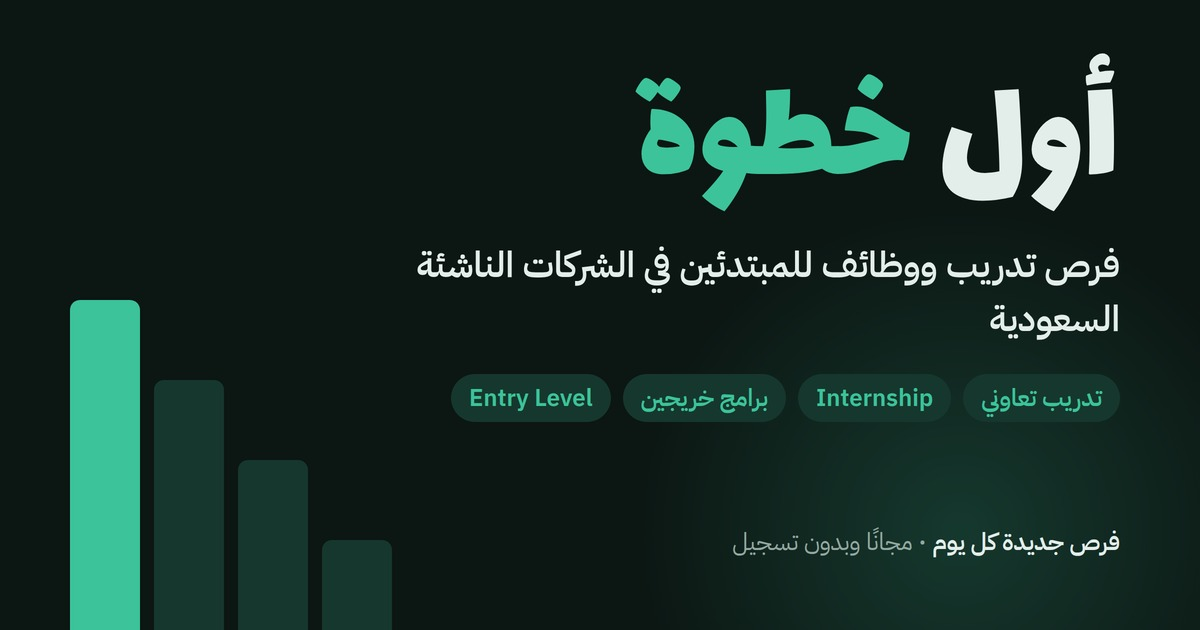
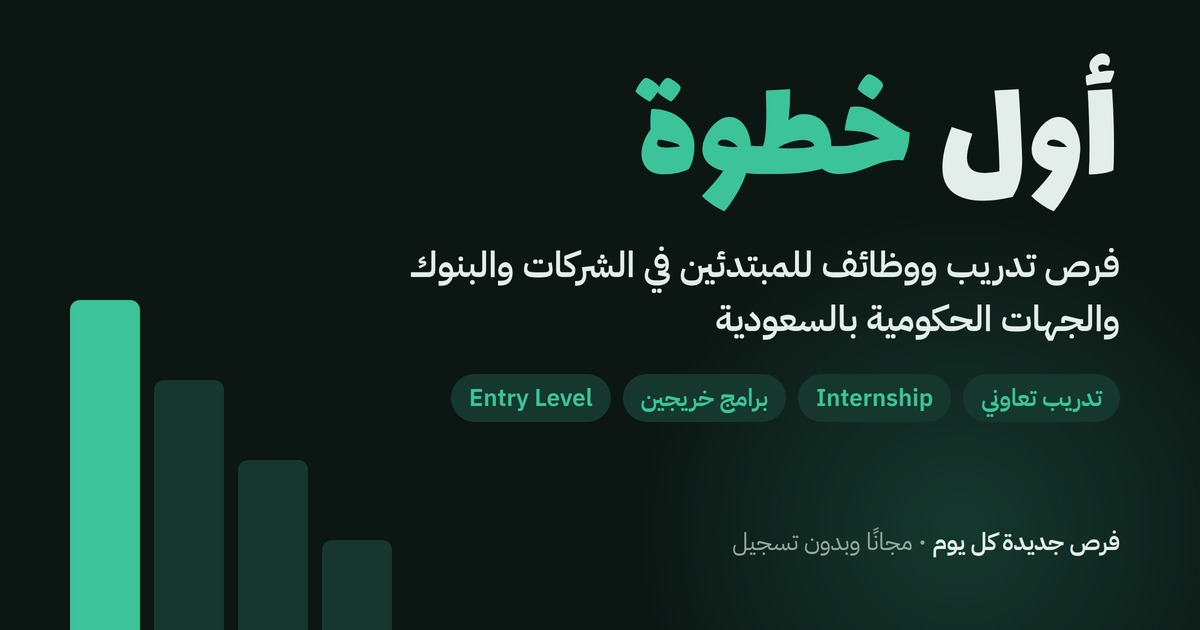
Add files via upload

Changed region(s): [[0.5858, 0.4825, 0.9558, 0.5429], [0.3392, 0.3921, 0.4317, 0.4524]]

diff --git a/index.html b/index.html
@@ -3,21 +3,21 @@
 <head>
 <meta charset="utf-8">
 <meta name="viewport" content="width=device-width, initial-scale=1, viewport-fit=cover">
-<title>أول خطوة | تدريب تعاوني وInternship ووظائف للمبتدئين في الشركات الناشئة السعودية</title>
-<meta name="description" content="فرص تدريب تعاوني وInternship وبرامج خريجين ووظائف Entry Level لحديثي التخرج في الشركات الناشئة السعودية بالرياض وجدة والشرقية. تتحدث كل يوم من صفحات التوظيف الرسمية.">
+<title>أول خطوة | تدريب تعاوني وInternship ووظائف للمبتدئين في السعودية</title>
+<meta name="description" content="فرص تدريب تعاوني وInternship وبرامج خريجين وتمهير ووظائف Entry Level لحديثي التخرج في السعودية: الشركات الناشئة والخاصة والبنوك والجهات الحكومية وشبه الحكومية. تتحدث كل يوم ومجانًا.">
 <link rel="canonical" href="https://saraalzhrani7.github.io/Awal-khatwa/">
-<script type="application/ld+json">{"@context":"https://schema.org","@type":"WebSite","name":"أول خطوة","alternateName":"Awal Khatwa","url":"https://saraalzhrani7.github.io/Awal-khatwa/","inLanguage":"ar","description":"فرص تدريب تعاوني وInternship ووظائف للمبتدئين في الشركات الناشئة السعودية"}</script>
+<script type="application/ld+json">{"@context":"https://schema.org","@type":"WebSite","name":"أول خطوة","alternateName":"Awal Khatwa","url":"https://saraalzhrani7.github.io/Awal-khatwa/","inLanguage":"ar","description":"فرص تدريب تعاوني وInternship ووظائف للمبتدئين في السعودية"}</script>
 <meta property="og:title" content="أول خطوة">
-<meta property="og:description" content="فرص تدريب ووظائف Entry Level في الشركات الناشئة السعودية للي توهم يبدون.">
+<meta property="og:description" content="فرص تدريب وبرامج خريجين ووظائف Entry Level في الشركات والبنوك والجهات الحكومية بالسعودية، للي توهم يبدون.">
 <meta property="og:type" content="website">
 <meta property="og:url" content="https://saraalzhrani7.github.io/Awal-khatwa/">
-<meta property="og:image" content="https://saraalzhrani7.github.io/Awal-khatwa/og-image.jpg">
+<meta property="og:image" content="https://saraalzhrani7.github.io/Awal-khatwa/og-image.jpg?v=2">
 <meta property="og:image:width" content="1200">
 <meta property="og:image:height" content="630">
 <meta property="og:image:type" content="image/jpeg">
 <meta property="og:locale" content="ar_SA">
 <meta name="twitter:card" content="summary_large_image">
-<meta name="twitter:image" content="https://saraalzhrani7.github.io/Awal-khatwa/og-image.jpg">
+<meta name="twitter:image" content="https://saraalzhrani7.github.io/Awal-khatwa/og-image.jpg?v=2">
 <link rel="manifest" href="manifest.webmanifest">
 <link rel="alternate" type="application/rss+xml" title="أول خطوة: فرص جديدة" href="feed.xml">
 <meta name="theme-color" content="#0B7A5C">
@@ -107,6 +107,7 @@ header.top{display:flex; flex-wrap:wrap; align-items:end; justify-content:space-
 .job h3{margin:0; font-size:17px; font-weight:600; line-height:1.35; text-wrap:balance}
 .meta{display:flex; flex-wrap:wrap; gap:6px; font-size:12.5px}
 .tag{border:1px solid var(--line); border-radius:6px; padding:1px 8px; color:var(--muted); background:var(--surface)}
+.tag.org{border-color:var(--saffron); color:var(--saffron)}
 .tag.type{border-color:transparent; background:var(--accent-soft); color:var(--accent); font-weight:600}
 .who{margin:0; font-size:14px; text-wrap:pretty; max-width:70ch}
 .job-side{display:flex; flex-direction:column; align-items:end; gap:10px; justify-content:space-between; min-width:150px}
@@ -278,12 +279,12 @@ footer .contact a{color:var(--ink); font-weight:500}
   <header class="top">
     <div class="brand">
       <h1>أول <span>خطوة</span></h1>
-      <p>فرص تدريب ووظائف Entry Level في الشركات الناشئة السعودية، للي توهم يبدون رحلتهم المهنية. كل إعلان يوديك لصفحة التقديم الرسمية.</p>
+      <p>فرص تدريب وبرامج خريجين ووظائف Entry Level في السعودية: الشركات الناشئة والخاصة، والبنوك، والجهات الحكومية وشبه الحكومية. للي توهم يبدون رحلتهم المهنية. كل إعلان يوديك لصفحة التقديم الرسمية.</p>
     </div>
     <div class="stats">
       <div class="stat"><b class="live" id="stOpen">–</b><small>فرصة مفتوحة الآن</small></div>
       <div class="stat"><b id="stAll">–</b><small>إعلان وبرنامج</small></div>
-      <div class="stat"><b id="stCo">–</b><small>شركة ناشئة</small></div>
+      <div class="stat"><b id="stCo">–</b><small>جهة وشركة</small></div>
     </div>
   </header>
 
@@ -317,6 +318,8 @@ footer .contact a{color:var(--ink); font-weight:500}
         <div class="frow" id="fToggles"></div>
         <div class="flabel">نوع الفرصة</div>
         <div class="chips" id="typeChips" role="group" aria-label="نوع الفرصة"></div>
+        <div class="flabel">نوع الجهة</div>
+        <div class="chips" id="orgChips" role="group" aria-label="نوع الجهة"></div>
         <div class="flabel">المجال</div>
         <div class="chips" id="fieldChips" role="group" aria-label="المجال"></div>
         <div class="flabel">المدينة</div>
@@ -337,6 +340,7 @@ footer .contact a{color:var(--ink); font-weight:500}
           <input id="q2" type="search" placeholder="ابحث باسم الشركة أو القطاع…" autocomplete="off">
         </label>
       </div>
+      <div class="chips" id="corgChips" role="group" aria-label="نوع الجهة"></div>
       <div class="chips" id="secChips" role="group" aria-label="القطاعات"></div>
     </div>
     <div class="grid" id="grid"></div>
@@ -370,8 +374,8 @@ const STATIC_EN = [
   ['.sitenav a[href="./"]', 'Opportunities'], ['.sitenav a[href="cv.html"]', 'CV Builder'], ['.sitenav a[href="guide.html"]', 'Beginner Guide'], ['.sitenav a[href="stats.html"]', 'Stats'],
   ['#langBtn', 'عربي'],
   ['.brand h1', 'Awal <span>Khatwa</span>'],
-  ['.brand p', 'Internships, co-op training, graduate programs and entry-level jobs at Saudi startups, for people just starting their careers. Every listing links to the official application page.'],
-  ['#stOpen + small', 'open now'], ['#stAll + small', 'listings & programs'], ['#stCo + small', 'startups'],
+  ['.brand p', 'Internships, co-op training, graduate programs and entry-level jobs in Saudi Arabia: startups, private companies, banks, government and semi-government entities. For people just starting their careers. Every listing links to the official application page.'],
+  ['#stOpen + small', 'open now'], ['#stAll + small', 'listings & programs'], ['#stCo + small', 'organizations'],
   ['#glossToggle', 'What’s the difference between these types?'],
   ['#glossary', `<div class="gloss"><span class="k">Co-op Training</span><p><b>University requirement:</b> training you need to graduate, approved and followed up by your university.</p></div>
     <div class="gloss"><span class="k">Internship</span><p><b>Not a university requirement:</b> for recent graduates or students in summer, usually 3 to 6 months and often paid.</p></div>
@@ -399,9 +403,9 @@ function applyStatic(){
   if(LANG !== "en") return;
   document.documentElement.lang = "en"; document.documentElement.dir = "ltr";
   const w = document.querySelector(".wrap"); w.setAttribute("dir","ltr"); w.setAttribute("lang","en");
-  document.title = "Awal Khatwa | Internships, Co-op and Entry-Level Jobs at Saudi Startups";
+  document.title = "Awal Khatwa | Internships, Co-op and Entry-Level Jobs in Saudi Arabia";
   STATIC_EN.forEach(([sel, html])=>{ const el = document.querySelector(sel); if(el) el.innerHTML = html; });
-  const fl = document.querySelectorAll(".flabel"); ["Type","Field","City"].forEach((t,i)=>{ if(fl[i]) fl[i].textContent = t; });
+  const fl = document.querySelectorAll(".flabel"); ["Type","Organization","Field","City"].forEach((t,i)=>{ if(fl[i]) fl[i].textContent = t; });
   Object.entries(PH_EN).forEach(([id,ph])=>{ const el = document.getElementById(id); if(el) el.placeholder = ph; });
   $("#langBtn").setAttribute("lang","ar");
 }
@@ -428,18 +432,20 @@ const REGIONS = {
   remote: {label:"عن بُعد", test:j=>!!j.remote || /عن ب[ُ]?عد/.test(j.city||"")}
 };
 const TYPES = {coop:"تدريب تعاوني", internship:"Internship", grad:"برنامج خريجين", entry:"Entry Level"};
-const FIELDS = {tech:"تقنية وبرمجة", data:"بيانات وذكاء اصطناعي", cyber:"أمن سيبراني", product:"منتج وتصميم", business:"أعمال وموارد بشرية", media:"إعلام ومحتوى"};
+const FIELDS = {tech:"تقنية وبرمجة", data:"بيانات وذكاء اصطناعي", cyber:"أمن سيبراني", finance:"مالية ومحاسبة", engineering:"هندسة", health:"صحة وعلوم", legal:"قانون", supply:"سلاسل إمداد ومشتريات", marketing:"تسويق ومبيعات", product:"منتج وتصميم", business:"أعمال وموارد بشرية", media:"إعلام ومحتوى"};
+const ORGS = {startup:"شركات ناشئة", private:"شركات خاصة", semi:"شبه حكومي", bank:"بنوك", gov:"جهات حكومية"};
 const STATUS = {open:"مفتوح", rolling:"مستمر", seasonal:"موسمي", closed:"مغلق حاليًا"};
 const LABELS = {
-  ar:{types:{...TYPES}, fields:{...FIELDS}, status:{...STATUS}, regions:{riyadh:"الرياض", west:"جدة ومكة", east:"الشرقية", remote:"عن بُعد"}},
+  ar:{types:{...TYPES}, fields:{...FIELDS}, status:{...STATUS}, orgs:{...ORGS}, regions:{riyadh:"الرياض", west:"جدة ومكة", east:"الشرقية", remote:"عن بُعد"}},
   en:{types:{coop:"Co-op Training", internship:"Internship", grad:"Graduate Program", entry:"Entry Level"},
-      fields:{tech:"Tech & Software", data:"Data & AI", cyber:"Cybersecurity", product:"Product & Design", business:"Business & HR", media:"Media & Content"},
+      fields:{tech:"Tech & Software", data:"Data & AI", cyber:"Cybersecurity", finance:"Finance & Accounting", engineering:"Engineering", health:"Health & Sciences", legal:"Law", supply:"Supply Chain & Procurement", marketing:"Marketing & Sales", product:"Product & Design", business:"Business & HR", media:"Media & Content"},
+      orgs:{startup:"Startups", private:"Private companies", semi:"Semi-government", bank:"Banks", gov:"Government"},
       status:{open:"Open", rolling:"Rolling", seasonal:"Seasonal", closed:"Closed for now"},
       regions:{riyadh:"Riyadh", west:"Jeddah & Makkah", east:"Eastern Province", remote:"Remote"}}
 };
-const SECT_EN = {"الكل":"All","إعلام ومحتوى":"Media & Content","برمجيات للأعمال":"Business Software","تقنية مالية":"Fintech","تجارة إلكترونية":"E-commerce","توصيل":"Delivery","سياحة وضيافة":"Travel & Hospitality","ذكاء اصطناعي":"AI","أمن سيبراني":"Cybersecurity","اتصالات":"Telecom","عقار وسكن":"Real Estate","فعاليات وترفيه":"Events & Entertainment","ألعاب":"Gaming","تقنية متقدمة":"Deep Tech"};
+const SECT_EN = {"الكل":"All","إعلام ومحتوى":"Media & Content","برمجيات للأعمال":"Business Software","تقنية مالية":"Fintech","تجارة إلكترونية":"E-commerce","توصيل":"Delivery","سياحة وضيافة":"Travel & Hospitality","ذكاء اصطناعي":"AI","أمن سيبراني":"Cybersecurity","اتصالات":"Telecom","عقار وسكن":"Real Estate","فعاليات وترفيه":"Events & Entertainment","ألعاب":"Gaming","تقنية متقدمة":"Deep Tech","بنوك":"Banks","طاقة وصناعة":"Energy & Industry","طيران":"Aviation","تطوير عقاري وسياحة":"Real Estate & Tourism","استثمار":"Investment","تعليم وبحث":"Education & Research","منصات حكومية":"Government Platforms","مالية ومحاسبة":"Finance","تجزئة وأغذية":"Retail & Food","صحة":"Healthcare","استشارات":"Consulting"};
 const sectL = x => LANG === "en" ? (SECT_EN[x] || x) : x;
-function applyLabels(){ const L = LABELS[LANG]; Object.assign(TYPES, L.types); Object.assign(FIELDS, L.fields); Object.assign(STATUS, L.status); Object.entries(L.regions).forEach(([k,v])=>{ REGIONS[k].label = v; }); }
+function applyLabels(){ const L = LABELS[LANG]; Object.assign(TYPES, L.types); Object.assign(FIELDS, L.fields); Object.assign(STATUS, L.status); Object.assign(ORGS, L.orgs); Object.entries(L.regions).forEach(([k,v])=>{ REGIONS[k].label = v; }); }
 const RANK = {open:0, rolling:1, seasonal:2, closed:3};
 
 const LI = n => "https://www.linkedin.com/jobs/search/?keywords=" + encodeURIComponent(n) + "&location=Saudi%20Arabia&f_E=1%2C2";
@@ -473,7 +479,7 @@ const COS = [
  {ar:"جاذر إن",en:"Gathern",sector:"سياحة وضيافة",desc:"حجز شاليهات وشقق واستراحات.",den:"Booking chalets, apartments and rest houses.",careers:"https://www.linkedin.com/company/gathern.co"},
  {ar:"لوسيديا",en:"Lucidya",sector:"ذكاء اصطناعي",desc:"تحليل تجربة العملاء بالذكاء الاصطناعي بالعربي.",den:"AI customer-experience analytics in Arabic.",careers:"https://apply.workable.com/lucidya/"},
  {ar:"مزن",en:"Mozn",sector:"ذكاء اصطناعي",desc:"ذكاء اصطناعي لمكافحة الاحتيال وتحليل البيانات.",den:"AI for fraud prevention and data analytics.",careers:"https://www.mozn.ai/careers"},
- {ar:"هيوماين",en:"HUMAIN",sector:"ذكاء اصطناعي",desc:"شركة ذكاء اصطناعي سعودية تابعة لصندوق الاستثمارات العامة.",den:"Saudi AI company owned by the Public Investment Fund.",careers:"https://hub.misk.org.sa/programs/skills/misk-x-humain-traineeship-program-future-ai-builders/"},
+ {ar:"هيوماين",en:"HUMAIN",org:"semi",sector:"ذكاء اصطناعي",desc:"شركة ذكاء اصطناعي سعودية تابعة لصندوق الاستثمارات العامة.",den:"Saudi AI company owned by the Public Investment Fund.",careers:"https://hub.misk.org.sa/programs/skills/misk-x-humain-traineeship-program-future-ai-builders/"},
  {ar:"كوقنا",en:"COGNNA",sector:"أمن سيبراني",desc:"منصة مركز عمليات أمنية (SOC) بالذكاء الاصطناعي.",den:"AI-powered security operations center (SOC) platform.",careers:"https://apply.workable.com/cognna/"},
  {ar:"سرج",en:"Sarj",sector:"ذكاء اصطناعي",desc:"وكلاء صوتيين عرب بالذكاء الاصطناعي للشركات، ويفتحون تدريب للمبتدئين.",den:"Arabic AI voice agents for enterprises; opens internships for beginners.",careers:"https://jobs.ashbyhq.com/sarjai"},
  {ar:"ديب",en:"DEEP.SA",sector:"ذكاء اصطناعي",desc:"محركات ووكلاء ذكاء اصطناعي مبنية للسوق والبيانات السعودية.",den:"AI engines and agents built for Saudi market data.",careers:"https://www.linkedin.com/company/deepforai/jobs/"},
@@ -493,8 +499,56 @@ const COS = [
  {ar:"ويبوك",en:"webook",sector:"فعاليات وترفيه",desc:"حجز التذاكر والفعاليات، ويفتحون تمهير وتدريب تعاوني وInternship.",den:"Tickets and events booking; offers Tamheer, co-op and internships.",careers:"https://apply.workable.com/webook/"},
  {ar:"ميراي",en:"Mirai",sector:"ألعاب",desc:"استوديو ألعاب ومحتوى بالذكاء الاصطناعي التوليدي.",den:"Game and content studio using generative AI.",careers:"https://apply.workable.com/playmirai/"},
  {ar:"أدري",en:"Adree",sector:"برمجيات للأعمال",desc:"اختبار البرمجيات والتحول الرقمي بتقنيات Low-code.",den:"Software testing and digital transformation with low-code.",careers:"https://apply.workable.com/adree/"},
- {ar:"آلات",en:"Alat",sector:"تقنية متقدمة",desc:"تصنيع إلكترونيات وتقنيات متقدمة، تابعة لصندوق الاستثمارات العامة.",den:"Electronics and advanced tech manufacturing, owned by PIF.",careers:"https://www.alat.com/en/careers/"},
- {ar:"نيو سبيس",en:"Neo Space Group",sector:"تقنية متقدمة",desc:"خدمات فضائية للاتصالات والرصد، تابعة لصندوق الاستثمارات العامة.",den:"Space services for communications and earth observation, owned by PIF.",careers:"https://www.linkedin.com/company/neospacegroup/jobs/"},
+ {ar:"آلات",en:"Alat",org:"semi",sector:"تقنية متقدمة",desc:"تصنيع إلكترونيات وتقنيات متقدمة، تابعة لصندوق الاستثمارات العامة.",den:"Electronics and advanced tech manufacturing, owned by PIF.",careers:"https://www.alat.com/en/careers/"},
+ {ar:"نيو سبيس",en:"Neo Space Group",org:"semi",sector:"تقنية متقدمة",desc:"خدمات فضائية للاتصالات والرصد، تابعة لصندوق الاستثمارات العامة.",den:"Space services for communications and earth observation, owned by PIF.",careers:"https://www.linkedin.com/company/neospacegroup/jobs/"},
+ {ar: "البنك الأهلي السعودي", en: "Saudi National Bank", org: "bank", sector: "بنوك", desc: "أكبر بنك في السعودية، وعنده برامج تطوير للخريجين.", den: "Saudi Arabia's largest bank, with graduate development programs.", careers: "https://www.linkedin.com/jobs/search/?keywords=Saudi%20National%20Bank&location=Saudi%20Arabia&f_E=1%2C2"},
+ {ar: "مصرف الراجحي", en: "Al Rajhi Bank", org: "bank", sector: "بنوك", desc: "من أكبر المصارف الإسلامية، ويفتح تدريب تعاوني وبرامج خريجين.", den: "One of the largest Islamic banks; offers co-op training and graduate programs.", careers: "https://careers.alrajhibank.com.sa/"},
+ {ar: "بنك الرياض", en: "Riyad Bank", org: "bank", sector: "بنوك", desc: "بنك سعودي كبير، وعنده برامج لحديثي التخرج.", den: "Major Saudi bank with programs for fresh graduates.", careers: "https://careers.riyadbank.com/"},
+ {ar: "البنك السعودي الأول", en: "SAB", org: "bank", sector: "بنوك", desc: "البنك السعودي الأول (ساب).", den: "Saudi Awwal Bank (SAB).", careers: "https://careers.sab.com/"},
+ {ar: "مصرف الإنماء", en: "Alinma Bank", org: "bank", sector: "بنوك", desc: "مصرف إسلامي وخدمات رقمية.", den: "Islamic bank with digital services.", careers: "https://career.alinma.com/"},
+ {ar: "البنك السعودي الفرنسي", en: "Banque Saudi Fransi", org: "bank", sector: "بنوك", desc: "بنك سعودي، ويعلن فرص لحديثي التخرج.", den: "Saudi bank that posts opportunities for fresh graduates.", careers: "https://www.bsfcareers.sa/"},
+ {ar: "البنك العربي الوطني", en: "Arab National Bank", org: "bank", sector: "بنوك", desc: "بنك سعودي بخدمات للأفراد والشركات.", den: "Saudi bank serving individuals and businesses.", careers: "https://careers.anb.sa/"},
+ {ar: "بنك البلاد", en: "Bank Albilad", org: "bank", sector: "بنوك", desc: "مصرف إسلامي سعودي.", den: "Saudi Islamic bank.", careers: "https://career.bankalbilad.com/"},
+ {ar: "بنك الجزيرة", en: "Bank AlJazira", org: "bank", sector: "بنوك", desc: "بنك سعودي بخدمات مصرفية إسلامية.", den: "Saudi bank with Islamic banking services.", careers: "https://career.bankaljazira.com/"},
+ {ar: "البنك السعودي للاستثمار", en: "Saudi Investment Bank", org: "bank", sector: "بنوك", desc: "بنك سعودي، وعنده برنامج خريجين وتدريب تعاوني.", den: "Saudi bank with a graduate program and co-op training.", careers: "https://careers.saib.com.sa/"},
+ {ar: "إس تي سي بنك", en: "STC Bank", org: "bank", sector: "بنوك", desc: "بنك رقمي سعودي (STC Pay سابقًا).", den: "Saudi digital bank (formerly STC Pay).", careers: "https://www.linkedin.com/jobs/search/?keywords=STC%20Bank&location=Saudi%20Arabia&f_E=1%2C2"},
+ {ar: "دال 360", en: "D360 Bank", org: "bank", sector: "بنوك", desc: "بنك رقمي سعودي جديد.", den: "New Saudi digital bank.", careers: "https://www.linkedin.com/jobs/search/?keywords=D360%20Bank&location=Saudi%20Arabia&f_E=1%2C2"},
+ {ar: "أرامكو السعودية", en: "Aramco", org: "semi", sector: "طاقة وصناعة", desc: "أكبر شركة طاقة في العالم، وعندها برامج تدريب وابتعاث للخريجين.", den: "The world's largest energy company, with training and graduate programs.", careers: "https://careers.aramco.com/"},
+ {ar: "سابك", en: "SABIC", org: "semi", sector: "طاقة وصناعة", desc: "شركة كيماويات عالمية سعودية.", den: "Global Saudi chemicals company.", careers: "https://jobs.sabic.com/"},
+ {ar: "معادن", en: "Ma'aden", org: "semi", sector: "طاقة وصناعة", desc: "شركة التعدين العربية السعودية، وعندها تدريب تعاوني.", den: "Saudi Arabian Mining Company; offers co-op training.", careers: "https://careers.maaden.com/"},
+ {ar: "الشركة السعودية للكهرباء", en: "Saudi Electricity", org: "semi", sector: "طاقة وصناعة", desc: "الكهرباء في المملكة، وعندها تدريب تعاوني وبرامج خريجين.", den: "Kingdom's electricity provider, with co-op and graduate programs.", careers: "https://jobs.se.com.sa/"},
+ {ar: "إس تي سي", en: "stc", org: "semi", sector: "اتصالات", desc: "أكبر شركة اتصالات وتقنية في السعودية.", den: "Saudi Arabia's largest telecom and tech company.", careers: "https://careers.stc.com.sa/"},
+ {ar: "علم", en: "Elm", org: "semi", sector: "برمجيات للأعمال", desc: "حلول رقمية وحكومية، تابعة لصندوق الاستثمارات العامة.", den: "Digital and e-government solutions, owned by PIF.", careers: "https://career.elm.sa/"},
+ {ar: "الخطوط السعودية", en: "Saudia", org: "semi", sector: "طيران", desc: "الناقل الوطني، وعندها برامج مثل برنامج الطيارين (Cadet).", den: "The national carrier, with programs like the Cadet Program.", careers: "https://careers.saudia.com/"},
+ {ar: "طيران الرياض", en: "Riyadh Air", org: "semi", sector: "طيران", desc: "شركة طيران وطنية جديدة تابعة للصندوق.", den: "New national airline owned by PIF.", careers: "https://riyadhair.tal.net/candidate/jobboard/vacancy/3/adv/"},
+ {ar: "نيوم", en: "NEOM", org: "semi", sector: "تطوير عقاري وسياحة", desc: "مشروع نيوم في شمال غرب المملكة.", den: "The NEOM giga-project in the northwest of the Kingdom.", careers: "https://careers.neom.com/"},
+ {ar: "البحر الأحمر الدولية", en: "Red Sea Global", org: "semi", sector: "تطوير عقاري وسياحة", desc: "مطور مشاريع البحر الأحمر وأمالا.", den: "Developer of The Red Sea and AMAALA destinations.", careers: "https://careers.theredsea.sa/"},
+ {ar: "القدية", en: "Qiddiya", org: "semi", sector: "تطوير عقاري وسياحة", desc: "مدينة الترفيه والرياضة في الرياض.", den: "Riyadh's entertainment and sports city.", careers: "https://apply.workable.com/qiddiya-investment-company-1/"},
+ {ar: "الدرعية", en: "Diriyah Company", org: "semi", sector: "تطوير عقاري وسياحة", desc: "تطوير الدرعية التاريخية.", den: "Developing historic Diriyah.", careers: "https://www.diriyahcompany.sa/en/careers"},
+ {ar: "روشن", en: "ROSHN", org: "semi", sector: "تطوير عقاري وسياحة", desc: "مطور عقاري وطني تابع للصندوق.", den: "National real estate developer owned by PIF.", careers: "https://www.linkedin.com/jobs/search/?keywords=ROSHN&location=Saudi%20Arabia&f_E=1%2C2"},
+ {ar: "صندوق الاستثمارات العامة", en: "PIF", org: "semi", sector: "استثمار", desc: "صندوق الثروة السيادي، وعنده برامج للخريجين.", den: "Saudi sovereign wealth fund, with graduate programs.", careers: "https://www.linkedin.com/jobs/search/?keywords=Public%20Investment%20Fund&location=Saudi%20Arabia&f_E=1%2C2"},
+ {ar: "أكوا باور", en: "ACWA Power", org: "private", sector: "طاقة وصناعة", desc: "طاقة متجددة وتحلية مياه.", den: "Renewable energy and water desalination.", careers: "https://careers.acwapower.com/"},
+ {ar: "كاوست", en: "KAUST", org: "semi", sector: "تعليم وبحث", desc: "جامعة الملك عبدالله للعلوم والتقنية، وعندها برامج تدريب صيفي.", den: "King Abdullah University of Science and Technology, with summer internships.", careers: "https://careers.kaust.edu.sa/"},
+ {ar: "مجموعة تداول السعودية", en: "Saudi Tadawul Group", org: "semi", sector: "استثمار", desc: "السوق المالية السعودية.", den: "The Saudi stock exchange group.", careers: "https://www.linkedin.com/jobs/search/?keywords=Saudi%20Tadawul%20Group&location=Saudi%20Arabia&f_E=1%2C2"},
+ {ar: "موبايلي", en: "Mobily", org: "private", sector: "اتصالات", desc: "شركة اتصالات سعودية.", den: "Saudi telecom company.", careers: "https://www.linkedin.com/jobs/search/?keywords=Mobily&location=Saudi%20Arabia&f_E=1%2C2"},
+ {ar: "جدارات", en: "Jadarat", org: "gov", sector: "منصات حكومية", desc: "المنصة الوطنية الموحدة للتوظيف: فيها الوظائف الحكومية وبرامج هدف.", den: "The national unified employment platform: government jobs and HRDF programs.", careers: "https://jadarat.sa/"},
+ {ar: "سدايا", en: "SDAIA", org: "gov", sector: "ذكاء اصطناعي", desc: "الهيئة السعودية للبيانات والذكاء الاصطناعي.", den: "Saudi Data and AI Authority.", careers: "https://www.linkedin.com/jobs/search/?keywords=SDAIA&location=Saudi%20Arabia&f_E=1%2C2"},
+ {ar: "الهيئة الوطنية للأمن السيبراني", en: "NCA", org: "gov", sector: "أمن سيبراني", desc: "الجهة الحكومية للأمن السيبراني في المملكة.", den: "The Kingdom's national cybersecurity authority.", careers: "https://www.linkedin.com/jobs/search/?keywords=National%20Cybersecurity%20Authority&location=Saudi%20Arabia&f_E=1%2C2"},
+ {ar: "هيئة الحكومة الرقمية", en: "Digital Government Authority", org: "gov", sector: "منصات حكومية", desc: "تنظيم وتطوير الخدمات الحكومية الرقمية.", den: "Regulates and develops digital government services.", careers: "https://www.linkedin.com/jobs/search/?keywords=Digital%20Government%20Authority&location=Saudi%20Arabia&f_E=1%2C2"},
+ {ar: "هيئة الزكاة والضريبة والجمارك", en: "ZATCA", org: "gov", sector: "مالية ومحاسبة", desc: "الزكاة والضرائب والجمارك.", den: "Zakat, tax and customs authority.", careers: "https://www.linkedin.com/jobs/search/?keywords=ZATCA&location=Saudi%20Arabia&f_E=1%2C2"},
+ {ar: "البنك المركزي السعودي", en: "SAMA", org: "gov", sector: "مالية ومحاسبة", desc: "البنك المركزي، وعنده برامج للخريجين.", den: "Saudi Central Bank, with graduate programs.", careers: "https://www.linkedin.com/jobs/search/?keywords=Saudi%20Central%20Bank&location=Saudi%20Arabia&f_E=1%2C2"},
+ {ar: "المراعي", en: "Almarai", org: "private", sector: "تجزئة وأغذية", desc: "أكبر شركة ألبان وأغذية في المنطقة، وعندها برامج خريجين.", den: "The region's largest dairy and food company, with graduate programs.", careers: "https://career5.successfactors.eu/career?company=AlMaraiP"},
+ {ar: "النهدي", en: "Nahdi", org: "private", sector: "صحة", desc: "أكبر سلسلة صيدليات في السعودية.", den: "Saudi Arabia's largest pharmacy chain.", careers: "https://efan.fa.em3.oraclecloud.com/hcmUI/CandidateExperience/en/sites/CX_1/jobs"},
+ {ar: "بوبا العربية", en: "Bupa Arabia", org: "private", sector: "صحة", desc: "تأمين صحي.", den: "Health insurance.", careers: "https://careers.bupa.com.sa/"},
+ {ar: "التعاونية", en: "Tawuniya", org: "private", sector: "مالية ومحاسبة", desc: "تأمين.", den: "Insurance.", careers: "https://careers.tawuniya.com.sa/jobs"},
+ {ar: "جرير", en: "Jarir", org: "private", sector: "تجزئة وأغذية", desc: "مكتبة ومتجر إلكترونيات.", den: "Bookstore and electronics retailer.", careers: "https://www.linkedin.com/jobs/search/?keywords=Jarir%20Bookstore&location=Saudi%20Arabia&f_E=1%2C2"},
+ {ar: "بي دبليو سي", en: "PwC Middle East", org: "private", sector: "استشارات", desc: "خدمات مهنية، وعندها تدريب تعاوني وبرامج خريجين في السعودية.", den: "Professional services, with co-op and graduate programs in KSA.", careers: "https://pwc.wd3.myworkdayjobs.com/en-US/Global_Campus_Careers"},
+ {ar: "ديلويت", en: "Deloitte Middle East", org: "private", sector: "استشارات", desc: "خدمات مهنية واستشارات.", den: "Professional services and consulting.", careers: "https://middleeastjobs.deloitte.com/careersME/SearchJobs/"},
+ {ar: "إرنست ويونغ", en: "EY", org: "private", sector: "استشارات", desc: "خدمات مهنية وتدقيق.", den: "Professional services and audit.", careers: "https://www.linkedin.com/jobs/search/?keywords=EY&location=Saudi%20Arabia&f_E=1%2C2"},
+ {ar: "كي بي إم جي", en: "KPMG", org: "private", sector: "استشارات", desc: "تدقيق واستشارات، وعندها برنامج تدريب في المراجعة.", den: "Audit and advisory, with an audit internship program.", careers: "https://slccareers.kpmg.com/go/Saudi-Arabia/7737723/"},
+ {ar: "أكسنتشر", en: "Accenture", org: "private", sector: "استشارات", desc: "استشارات وتقنية، وعندها تدريب تعاوني في السعودية.", den: "Consulting and technology, with co-op internships in KSA.", careers: "https://accenture.wd103.myworkdayjobs.com/en-US/AccentureCareers"},
+ {ar: "لوسد", en: "Lucid Motors", org: "private", sector: "طاقة وصناعة", desc: "مصنع سيارات كهربائية في مدينة الملك عبدالله الاقتصادية.", den: "Electric vehicle factory in King Abdullah Economic City.", careers: "https://job-boards.greenhouse.io/lucidmotors"},
+ {ar: "بيكر هيوز", en: "Baker Hughes", org: "private", sector: "طاقة وصناعة", desc: "تقنيات طاقة، وعندها تدريب صيفي وتمهير في السعودية.", den: "Energy technology, with summer internships and Tamheer in KSA.", careers: "https://bakerhughes.wd5.myworkdayjobs.com/en-US/BakerHughes"},
  {ar:"أثير",en:"Atheer Connectivity",sector:"اتصالات",desc:"تقنيات اتصال لاسلكي لإيصال الإنترنت للمناطق البعيدة.",den:"Wireless tech bringing internet to remote areas.",careers:"https://freehire.me/jobs/software-engineer-intern-coop-atheer-ct-mkhhu7ik"}
 ];
 
@@ -505,7 +559,8 @@ const hasLatin = t => /[A-Za-z]/.test(t) && !/[-ۿ]/.test(t);
 const today = new Date(); today.setHours(0,0,0,0);
 
 let JOBS = [];
-const st = {q:"", type:"all", field:"all", region:"all", openOnly:true, saved:false, q2:"", sector:"الكل"};
+const st = {q:"", type:"all", field:"all", region:"all", org:"all", openOnly:true, saved:false, q2:"", sector:"الكل", corg:"all"};
+const orgOf = x => x.org || "startup";
 const SAVE_KEY = "awal-khatwa-saved";
 let SAVED = new Set(); try{ SAVED = new Set(JSON.parse(localStorage.getItem(SAVE_KEY)||"[]")); }catch(e){}
 const persistSaved = () => { try{ localStorage.setItem(SAVE_KEY, JSON.stringify([...SAVED])); }catch(e){} };
@@ -537,20 +592,21 @@ function chipsHTML(map, cur, counts){
 function renderJobs(){
   const mine = new Set([...SAVED, ...APPLIED].filter(id=>JOBS.some(j=>j.id===id)));
   $("#savedN").textContent = mine.size ? mine.size : "";
-  const nf = (st.type!=="all") + (st.field!=="all") + (st.region!=="all") + (!st.openOnly) + (st.saved);
+  const nf = (st.type!=="all") + (st.field!=="all") + (st.region!=="all") + (st.org!=="all") + (!st.openOnly) + (st.saved);
   $("#fCount").textContent = nf; $("#fCount").hidden = !nf;
   const pool = st.saved ? JOBS.filter(j => SAVED.has(j.id) || APPLIED.has(j.id)) : JOBS.filter(j => !st.openOnly || isApplyable(j));
-  const tc={}, fc={}, rc={};
-  pool.forEach(j=>{ tc[j.type]=(tc[j.type]||0)+1; fc[j.field]=(fc[j.field]||0)+1;
+  const tc={}, fc={}, rc={}, oc={};
+  pool.forEach(j=>{ tc[j.type]=(tc[j.type]||0)+1; fc[j.field]=(fc[j.field]||0)+1; oc[orgOf(j)]=(oc[orgOf(j)]||0)+1;
     Object.entries(REGIONS).forEach(([k,r])=>{ if(r.test(j)) rc[k]=(rc[k]||0)+1; }); });
   $("#typeChips").innerHTML = chipsHTML(TYPES, st.type, tc);
   $("#fieldChips").innerHTML = chipsHTML(FIELDS, st.field, fc);
+  $("#orgChips").innerHTML = chipsHTML(ORGS, st.org, oc);
   $("#cityChips").innerHTML = chipsHTML(Object.fromEntries(Object.entries(REGIONS).map(([k,r])=>[k,r.label])), st.region, rc);
   const q = norm(st.q.trim());
   const list = pool.filter(j =>
-    (st.type==="all"||j.type===st.type) && (st.field==="all"||j.field===st.field) &&
+    (st.type==="all"||j.type===st.type) && (st.field==="all"||j.field===st.field) && (st.org==="all"||orgOf(j)===st.org) &&
     (st.region==="all"||REGIONS[st.region].test(j)) &&
-    (!q || norm([j.company,j.companyEn,j.title,j.who,j.city,TYPES[j.type],FIELDS[j.field]].join(" ")).includes(q))
+    (!q || norm([j.company,j.companyEn,j.title,j.who,j.city,TYPES[j.type],FIELDS[j.field],ORGS[orgOf(j)]].join(" ")).includes(q))
   ).sort((a,b)=>{
     const r = RANK[effStatus(a)]-RANK[effStatus(b)]; if(r) return r;
     const n = isNew(b)-isNew(a); if(n) return n;
@@ -579,7 +635,7 @@ function jobHTML(j){
   let due = "";
   if(d!==null && d>=0) due = `<div class="due ${d<=7?"hot":""}"><span>${d===0?T("آخر يوم اليوم","Last day today"):d===1?T("باقي يوم واحد","1 day left"):T(`باقي ${d} يوم`,`${d} days left`)}</span><span class="dd">${fmtDate(j.deadline)}</span></div>`;
   else if(d!==null) due = `<div class="due">${T("انتهى التقديم","Closed on")} ${fmtDate(j.deadline)}</div>`;
-  const meta = [`<span class="tag type">${TYPES[j.type]||""}</span>`, `<span class="tag">${FIELDS[j.field]||""}</span>`, j.city&&`<span class="tag">${esc(cityL(j.city))}</span>`, (j.remote && !/عن ب/.test(j.city||""))&&`<span class="tag">${T("عن بُعد","Remote")}</span>`, j.duration&&!(LANG==="en"&&hasArabic(j.duration))&&`<span class="tag dur">${esc(j.duration)}</span>`, j.paid&&!(LANG==="en"&&hasArabic(j.paid))&&`<span class="tag">${esc(j.paid)}</span>`].filter(Boolean).join("");
+  const meta = [`<span class="tag type">${TYPES[j.type]||""}</span>`, orgOf(j)!=="startup" && `<span class="tag org">${ORGS[orgOf(j)]}</span>`, `<span class="tag">${FIELDS[j.field]||""}</span>`, j.city&&`<span class="tag">${esc(cityL(j.city))}</span>`, (j.remote && !/عن ب/.test(j.city||""))&&`<span class="tag">${T("عن بُعد","Remote")}</span>`, j.duration&&!(LANG==="en"&&hasArabic(j.duration))&&`<span class="tag dur">${esc(j.duration)}</span>`, j.paid&&!(LANG==="en"&&hasArabic(j.paid))&&`<span class="tag">${esc(j.paid)}</span>`].filter(Boolean).join("");
   const label = s==="closed" ? T("صفحة البرنامج","Program page") : T("صفحة التقديم","Apply");
   const whoTxt = LANG==="en" ? ((j.who||"").match(/^قسم (.+?)\.?$/) ? `${RegExp.$1} team.` : (hasArabic(j.who) ? "" : j.who||"")) : (j.who||"");
   return `<article class="job ${s}${APPLIED.has(j.id)?" applied":""}" id="job-${esc(j.id)}">
@@ -602,16 +658,20 @@ function jobHTML(j){
 }
 
 function renderCos(){
-  const sectors = ["الكل", ...new Set(COS.map(c=>c.sector))];
+  const coc = {}; COS.forEach(c=>{ const o = c.org||"startup"; coc[o]=(coc[o]||0)+1; });
+  $("#corgChips").innerHTML = chipsHTML(ORGS, st.corg, coc);
+  const inOrg = COS.filter(c=>st.corg==="all" || (c.org||"startup")===st.corg);
+  const sectors = ["الكل", ...new Set(inOrg.map(c=>c.sector))];
+  if(!sectors.includes(st.sector)) st.sector = "الكل";
   $("#secChips").innerHTML = sectors.map(s=>`<button class="chip" type="button" data-s="${s}" aria-pressed="${s===st.sector}">${sectL(s)}</button>`).join("");
   const q = norm(st.q2.trim());
   const openBy = {}; JOBS.filter(isApplyable).forEach(j=>{ if(j.companyEn) openBy[j.companyEn]=(openBy[j.companyEn]||0)+1; });
-  const list = COS.filter(c=>(st.sector==="الكل"||c.sector===st.sector) && (!q||norm([c.ar,c.en,c.sector,sectL(c.sector),c.desc,c.den||""].join(" ")).includes(q)))
+  const list = inOrg.filter(c=>(st.sector==="الكل"||c.sector===st.sector) && (!q||norm([c.ar,c.en,c.sector,sectL(c.sector),c.desc,c.den||""].join(" ")).includes(q)))
     .sort((a,b)=>(openBy[b.en]||0)-(openBy[a.en]||0));
   $("#grid").innerHTML = list.map(c=>`<article class="card">
     <div class="card-head"><div class="mono" aria-hidden="true">${esc(LANG==="en" ? c.en[0] : c.ar[0])}</div>
       <div class="names">${LANG==="en"?`<h3 class="ltr">${esc(c.en)}</h3><div class="en">${esc(c.ar)}</div>`:`<h3>${esc(c.ar)}</h3><div class="en ltr">${esc(c.en)}</div>`}</div></div>
-    <div class="meta"><span class="tag">${esc(sectL(c.sector))}</span>${openBy[c.en]?`<span class="has-jobs">${T(`${openBy[c.en]} فرصة مفتوحة للمبتدئين`,`${openBy[c.en]} open for beginners`)}</span>`:""}</div>
+    <div class="meta"><span class="tag">${esc(sectL(c.sector))}</span>${(c.org||"startup")!=="startup"?`<span class="tag org">${ORGS[c.org]}</span>`:""}${openBy[c.en]?`<span class="has-jobs">${T(`${openBy[c.en]} فرصة مفتوحة للمبتدئين`,`${openBy[c.en]} open for beginners`)}</span>`:""}</div>
     <p class="desc">${esc(LANG==="en" && c.den ? c.den : c.desc)}</p>
     <div class="actions"><a class="btn primary" href="${esc(c.careers)}" target="_blank" rel="noopener">${T("صفحة التوظيف","Careers page")}</a><a class="btn" href="${LI(c.en)}" target="_blank" rel="noopener">${T("وظائف المبتدئين في LinkedIn","Entry-level jobs on LinkedIn")}</a></div>
   </article>`).join("") || `<div class="empty">${T("ما فيه نتائج.","No results.")}</div>`;
@@ -631,6 +691,7 @@ function renderAll(){ renderStats(); renderJobs(); renderCos(); }
 // events
 $("#typeChips").addEventListener("click",e=>{const b=e.target.closest(".chip"); if(!b) return; st.type=b.dataset.v; renderJobs();});
 $("#fieldChips").addEventListener("click",e=>{const b=e.target.closest(".chip"); if(!b) return; st.field=b.dataset.v; renderJobs();});
+$("#orgChips").addEventListener("click",e=>{const b=e.target.closest(".chip"); if(!b) return; st.org=b.dataset.v; renderJobs();});
 $("#savedBtn").addEventListener("click",e=>{ st.saved=!st.saved; e.currentTarget.setAttribute("aria-pressed",st.saved); st.type="all"; st.field="all"; st.region="all"; renderJobs(); });
 $("#cityChips").addEventListener("click",e=>{const b=e.target.closest(".chip"); if(!b) return; st.region=b.dataset.v; renderJobs();});
 $("#q").addEventListener("input",e=>{st.q=e.target.value; renderJobs();});
@@ -724,6 +785,7 @@ window.addEventListener("hashchange", focusHash);
 $("#openBtn").addEventListener("click",e=>{st.openOnly=!st.openOnly; e.currentTarget.setAttribute("aria-pressed",st.openOnly); st.type="all"; st.field="all"; renderJobs();});
 $("#q2").addEventListener("input",e=>{st.q2=e.target.value; renderCos();});
 $("#secChips").addEventListener("click",e=>{const b=e.target.closest(".chip"); if(!b) return; st.sector=b.dataset.s; renderCos();});
+$("#corgChips").addEventListener("click",e=>{const b=e.target.closest(".chip"); if(!b) return; st.corg=b.dataset.v; st.sector="الكل"; renderCos();});
 function showTab(which){
   const jobs = which==="jobs";
   $("#tab-jobs").setAttribute("aria-selected",jobs); $("#tab-cos").setAttribute("aria-selected",!jobs);
@@ -744,7 +806,7 @@ $("#filterBtn").addEventListener("click", ()=> $("#fpanel").classList.contains("
 $("#fDone").addEventListener("click", ()=>{ closeFilters(); $("#list").scrollIntoView({block:"start"}); });
 $("#fback").addEventListener("click", closeFilters);
 document.addEventListener("keydown", e=>{ if(e.key==="Escape" && $("#fpanel").classList.contains("open")) closeFilters(); });
-$("#fReset").addEventListener("click", ()=>{ st.type="all"; st.field="all"; st.region="all"; st.saved=false; st.openOnly=true;
+$("#fReset").addEventListener("click", ()=>{ st.type="all"; st.field="all"; st.region="all"; st.org="all"; st.saved=false; st.openOnly=true;
   $("#savedBtn").setAttribute("aria-pressed","false"); $("#openBtn").setAttribute("aria-pressed","true"); renderJobs(); });
 (MOBILE.addEventListener ? MOBILE.addEventListener("change", placeToggles) : MOBILE.addListener(placeToggles));
 placeToggles();

diff --git a/stats.html b/stats.html
@@ -4,12 +4,12 @@
 <meta charset="utf-8">
 <meta name="viewport" content="width=device-width, initial-scale=1, viewport-fit=cover">
 <title>الإحصائيات | أول خطوة</title>
-<meta name="description" content="أرقام فرص المبتدئين في الشركات الناشئة السعودية: أكثر الشركات توظيفًا، وأكثر المجالات طلبًا، وعدد الفرص عبر الوقت.">
+<meta name="description" content="أرقام فرص المبتدئين في السعودية: أكثر الشركات توظيفًا، وأكثر المجالات طلبًا، وعدد الفرص عبر الوقت.">
 <link rel="canonical" href="https://saraalzhrani7.github.io/Awal-khatwa/stats.html">
 <meta property="og:title" content="إحصائيات فرص المبتدئين | أول خطوة">
-<meta property="og:description" content="أكثر الشركات الناشئة السعودية توظيفًا للمبتدئين، وأكثر المجالات طلبًا.">
+<meta property="og:description" content="أكثر الشركات والجهات السعودية توظيفًا للمبتدئين، وأكثر المجالات طلبًا.">
 <meta property="og:type" content="website">
-<meta property="og:image" content="https://saraalzhrani7.github.io/Awal-khatwa/og-image.jpg">
+<meta property="og:image" content="https://saraalzhrani7.github.io/Awal-khatwa/og-image.jpg?v=2">
 <meta name="twitter:card" content="summary_large_image">
 <link rel="manifest" href="manifest.webmanifest">
 <meta name="theme-color" content="#0B7A5C">
@@ -104,7 +104,7 @@ footer{margin-top:28px; color:var(--muted); font-size:12.5px}
 
   <header>
     <h1>الإحصائيات</h1>
-    <p class="lead">أرقام فرص المبتدئين في الشركات الناشئة اللي يتابعها «أول خطوة»: مين يوظف أكثر، ووش المجالات المطلوبة، وكيف يتغير عدد الفرص مع الوقت.</p>
+    <p class="lead">أرقام فرص المبتدئين في الشركات والجهات اللي يتابعها «أول خطوة»: مين يوظف أكثر، ووش المجالات المطلوبة، وكيف يتغير عدد الفرص مع الوقت.</p>
   </header>
 
   <div class="tiles">
@@ -151,7 +151,7 @@ footer{margin-top:28px; color:var(--muted); font-size:12.5px}
 
 <script>
 const TYPES = {coop:"تدريب تعاوني", internship:"Internship", grad:"برنامج خريجين", entry:"Entry Level"};
-const FIELDS = {tech:"تقنية وبرمجة", data:"بيانات وذكاء اصطناعي", cyber:"أمن سيبراني", product:"منتج وتصميم", business:"أعمال وموارد بشرية", media:"إعلام ومحتوى"};
+const FIELDS = {tech:"تقنية وبرمجة", data:"بيانات وذكاء اصطناعي", cyber:"أمن سيبراني", finance:"مالية ومحاسبة", engineering:"هندسة", health:"صحة وعلوم", legal:"قانون", supply:"سلاسل إمداد ومشتريات", marketing:"تسويق ومبيعات", product:"منتج وتصميم", business:"أعمال وموارد بشرية", media:"إعلام ومحتوى"};
 const MONTHS = ["يناير","فبراير","مارس","أبريل","مايو","يونيو","يوليو","أغسطس","سبتمبر","أكتوبر","نوفمبر","ديسمبر"];
 const $ = s => document.querySelector(s);
 const today = new Date(); today.setHours(0,0,0,0);
@@ -278,7 +278,7 @@ function render(){
   const post = [
     `📊 أرقام «أول خطوة» لشهر ${month}`,
     ``,
-    `خلال ${month} نزل في الموقع ${nOpp(newMonth)} جديدة للمبتدئين في الشركات الناشئة السعودية.`,
+    `خلال ${month} نزل في الموقع ${nOpp(newMonth)} جديدة للمبتدئين في الشركات والجهات السعودية.`,
     ``,
     topCo ? `• أكثر شركة فتحت فرص للمبتدئين: ${nameAr[topCo[0]]||topCo[0]} (${nOpp(topCo[1])})` : "",
     topF ? `• أكثر مجال مطلوب: ${FIELDS[topF[0]]||"أخرى"}` : "",

diff --git a/cv.html b/cv.html
@@ -9,7 +9,7 @@
 <meta property="og:title" content="اكتب سيرتك | أول خطوة">
 <meta property="og:description" content="صانع سيرة ذاتية مجاني متوافق مع أنظمة ATS، مع مطابقة السيرة مع الإعلان.">
 <meta property="og:type" content="website">
-<meta property="og:image" content="https://saraalzhrani7.github.io/Awal-khatwa/og-image.jpg">
+<meta property="og:image" content="https://saraalzhrani7.github.io/Awal-khatwa/og-image.jpg?v=2">
 <meta name="twitter:card" content="summary_large_image">
 <link rel="manifest" href="manifest.webmanifest">
 <meta name="theme-color" content="#0B7A5C">

diff --git a/guide.html b/guide.html
@@ -9,7 +9,7 @@
 <meta property="og:title" content="دليل المبتدئ | أول خطوة">
 <meta property="og:description" content="كل اللي تحتاج تعرفه قبل ما تقدم على أول تدريب أو وظيفة.">
 <meta property="og:type" content="article">
-<meta property="og:image" content="https://saraalzhrani7.github.io/Awal-khatwa/og-image.jpg">
+<meta property="og:image" content="https://saraalzhrani7.github.io/Awal-khatwa/og-image.jpg?v=2">
 <meta name="twitter:card" content="summary_large_image">
 <link rel="manifest" href="manifest.webmanifest">
 <meta name="theme-color" content="#0B7A5C">

diff --git a/README.md b/README.md
@@ -1,6 +1,6 @@
 # أول خطوة · Awal Khatwa
 
-**فرص التدريب ووظائف المبتدئين في الشركات الناشئة السعودية، في مكان واحد.**
+**فرص التدريب وبرامج الخريجين ووظائف المبتدئين في السعودية (الشركات الناشئة والخاصة، والبنوك، والجهات الحكومية وشبه الحكومية)، في مكان واحد.**
 
 🔗 **الموقع:** https://saraalzhrani7.github.io/Awal-khatwa/
 
@@ -20,7 +20,7 @@
   - زر مشاركة لكل فرصة، ولكل فرصة صفحة صغيرة (`j/`) عشان تطلع معاينة حلوة في واتساب وتويتر.
   - نسخة إنجليزية (زر English)، وتقدر تثبت الموقع كتطبيق على الجوال (PWA).
   - ملف RSS (`feed.xml`) للفرص الجديدة، ينفع لتطبيقات الأخبار وقنوات تيليجرام.
-- **الشركات:** دليل لأكثر من 50 شركة ناشئة سعودية، فيه روابط صفحات التوظيف.
+- **الشركات والجهات:** دليل لأكثر من 100 جهة (ناشئة، وخاصة، وبنوك، وشبه حكومية، وحكومية)، فيه روابط صفحات التوظيف.
 - **سيرتك:**
   - صانع سيرة ذاتية مجاني بقالب متوافق مع أنظمة ATS، يحملها PDF.
   - يقدر يعبّي الخانات من سيرة قديمة (PDF أو Word).
@@ -40,7 +40,7 @@ GitHub Actions (يوميًا 6 الصبح بتوقيت السعودية)
         ▼
 scripts/update_jobs.py
   ├─ يجيب الإعلانات من واجهات أنظمة التوظيف العامة:
-  │    Workable · Greenhouse · Ashby · Pinpoint · SmartRecruiters
+  │    Workable · Greenhouse · Ashby · Pinpoint · SmartRecruiters · Workday · Oracle · SuccessFactors
   ├─ يفلتر: السعودية فقط + مناسبة للمبتدئين
   │    (Intern, Junior, Graduate, Co-op, Entry Level, تمهير…)
   ├─ يصنّف النوع والمجال، ويدمج الإعلان المكرر في أكثر من مدينة
@@ -82,7 +82,9 @@ GitHub Pages ← index.html / cv.html / guide.html / stats.html
 {"company": "اسم الشركة", "companyEn": "Company", "ats": "workable", "id": "company-slug"},
 ```
 
-`ats` يكون واحد من: `workable` · `greenhouse` · `ashby` · `pinpoint` · `smartrecruiters`
+`ats` يكون واحد من: `workable` · `greenhouse` · `ashby` · `pinpoint` · `smartrecruiters` · `workday` · `oracle` · `successfactors`
+
+وحطي `"org"` لنوع الجهة: `startup` (الافتراضي) · `private` · `semi` (شبه حكومي) · `bank` · `gov`.
 
 ## الإعلانات اليدوية
 
